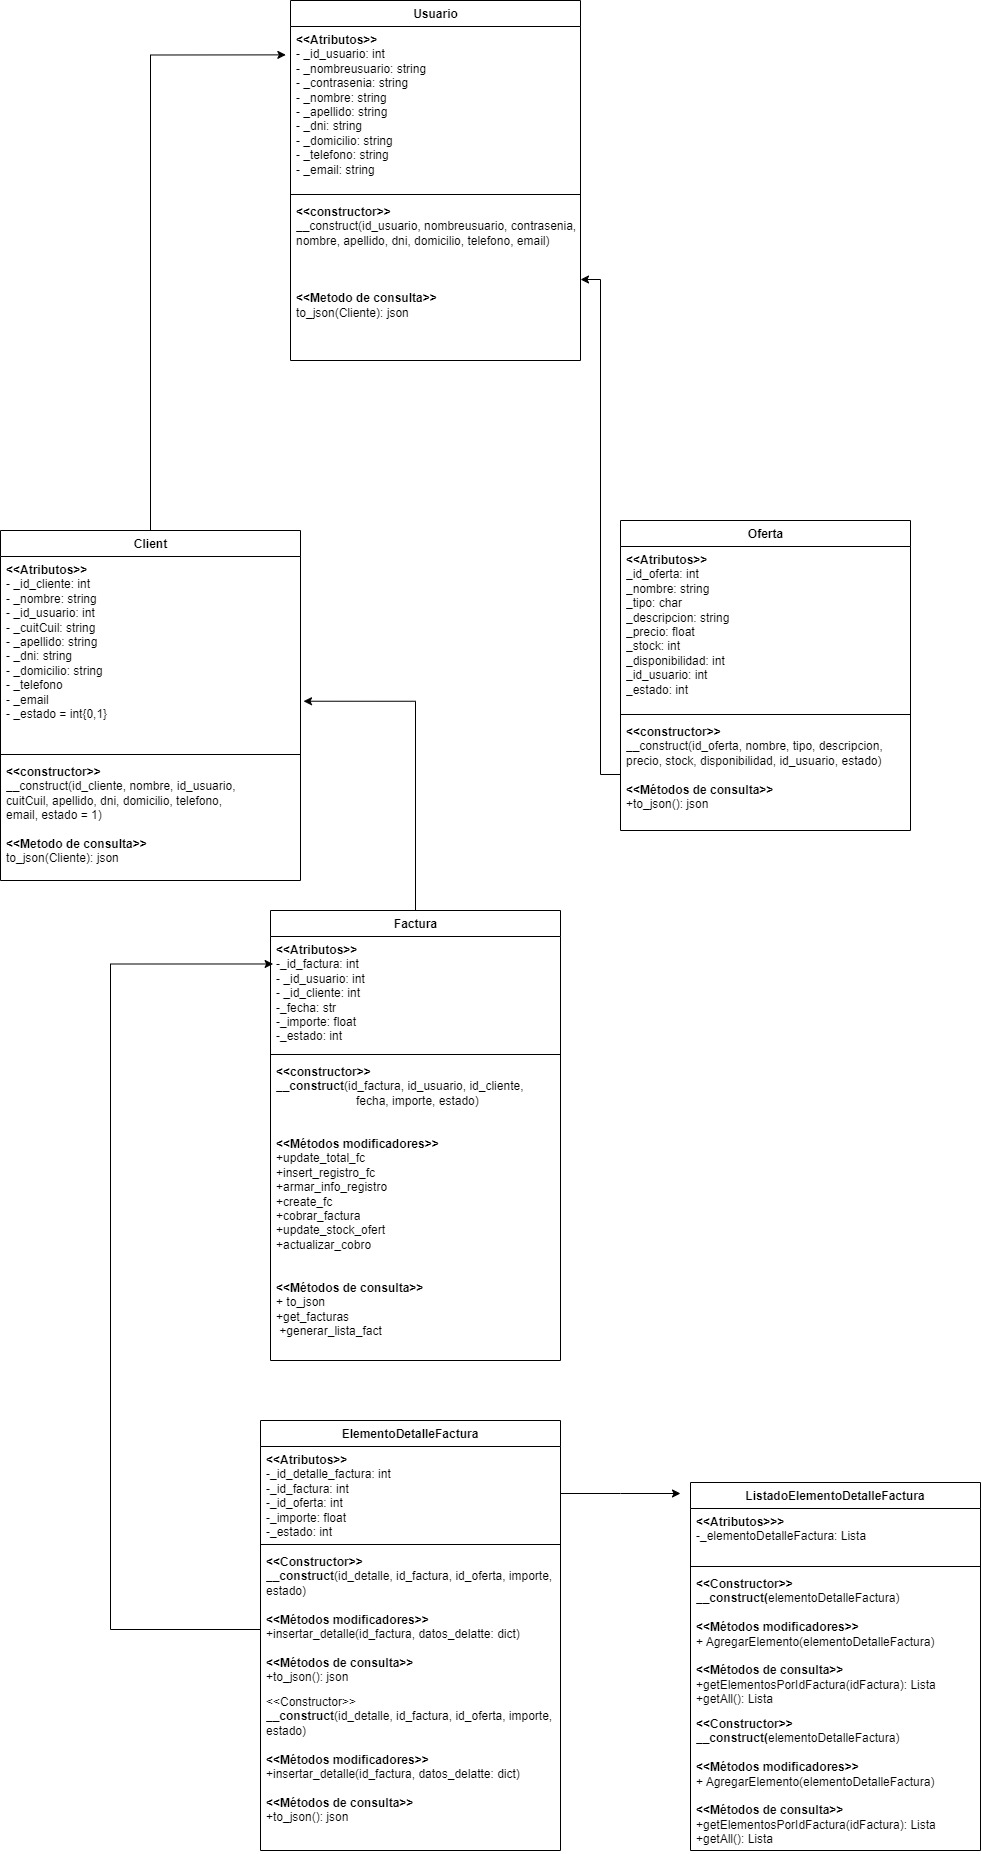
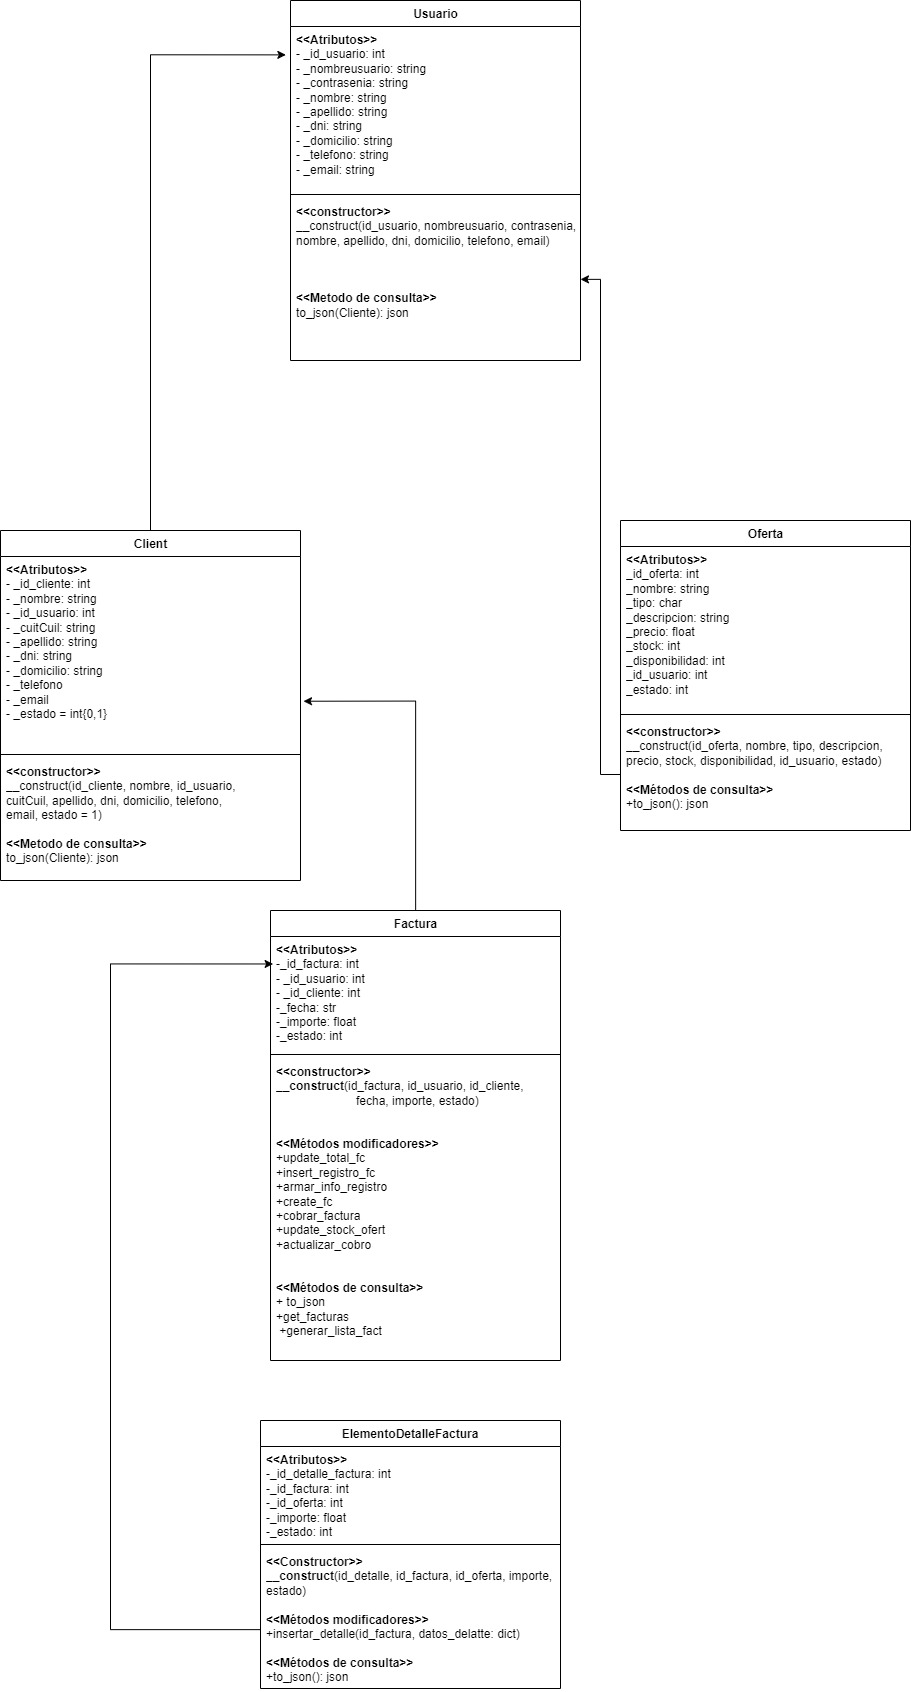
.

diff --git a/server/api/models/factura.py b/server/api/models/factura.py
@@ -449,21 +449,3 @@ class ElementoDetalleFactura:
         else:
             cur.close()
             return [], 0 # No se insertaron registros, retornar lista vacía
-       
-
-
-
-class ListadoElementoDetalleFactura:
-    #lista del detalle de la factura y sus metodos
-    def __init__(self):
-        self._elementos = []
-
-    def agregarElemento(self, elemento):
-        self._elementos.append(elemento)
-
-    def getElementosPorIdFactura(self, id_factura):
-        return [elemento for elemento in self.elementos if elemento.id_factura == id_factura]
-
-    def getAll(self):
-        return self._elementos
-    
